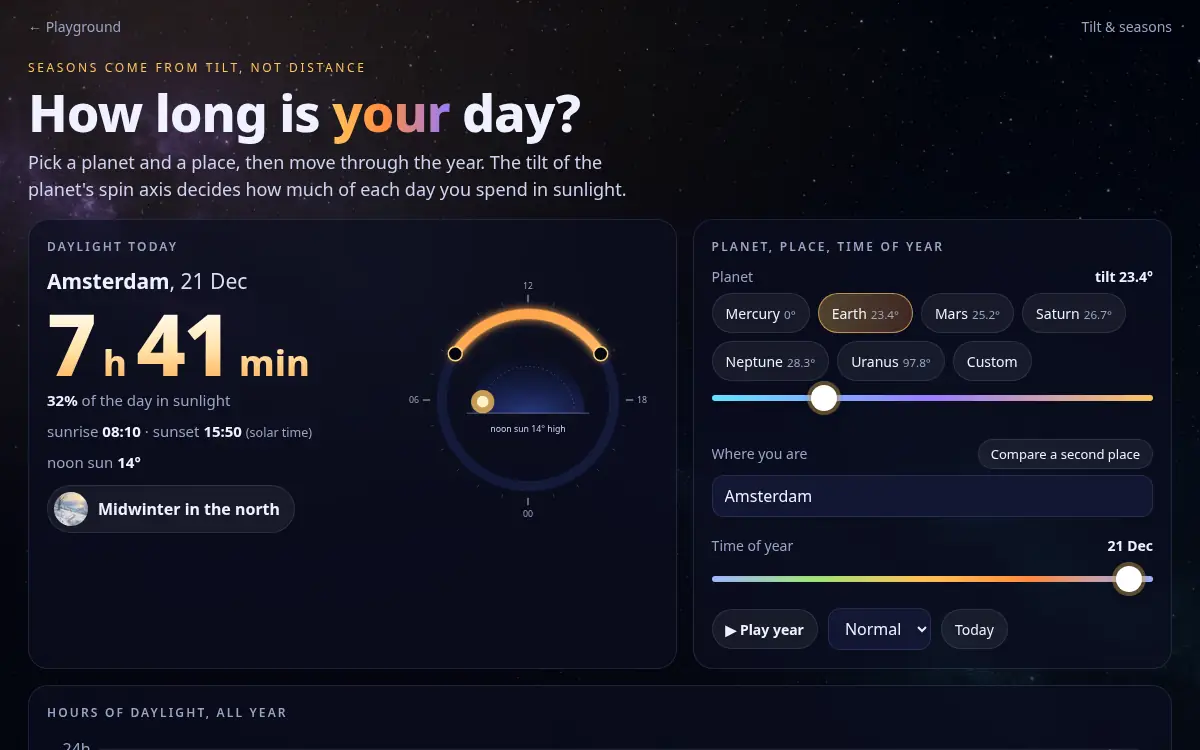
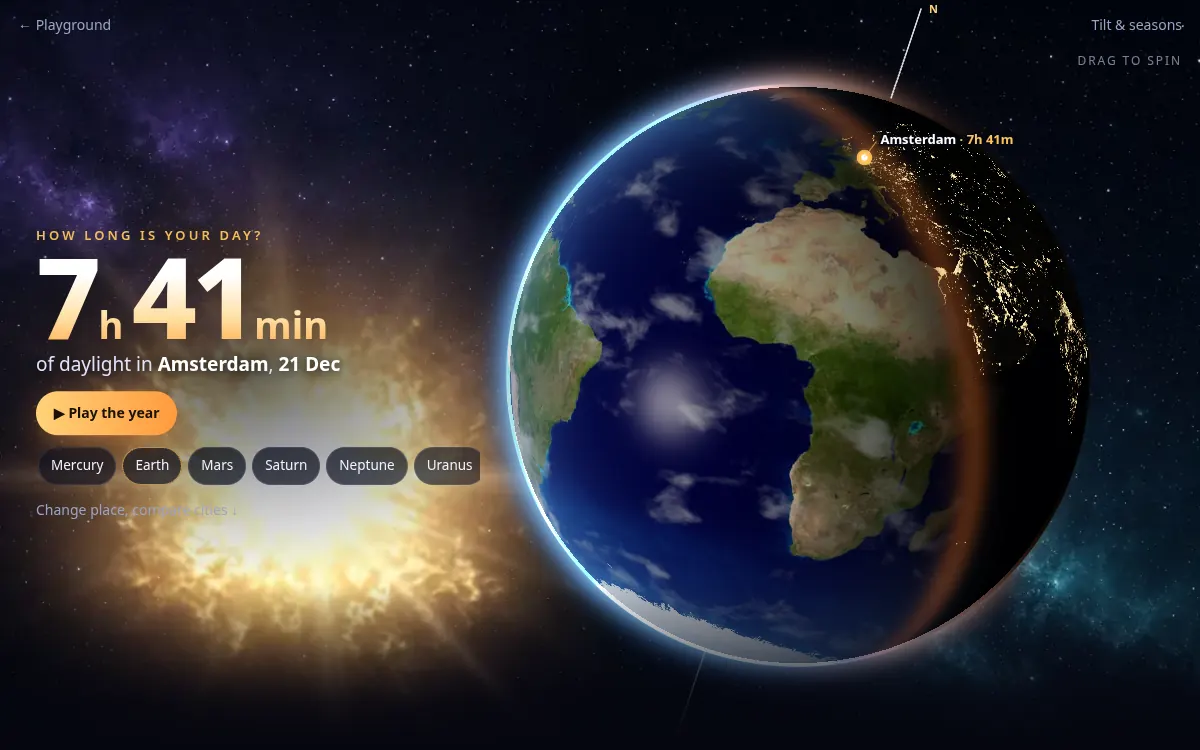
playground/seasons: real-time planet hero (NASA imagery), new thumbnail (noindex)

diff --git a/playground/seasons/index.html b/playground/seasons/index.html
@@ -86,15 +86,73 @@ footer{color:var(--mute);font-size:12.5px;margin-top:20px;text-align:center}
 @keyframes pulse{0%,100%{opacity:.55}50%{opacity:1}}
 .pulse{animation:pulse 3.2s ease-in-out infinite}
 @media(prefers-reduced-motion:reduce){*{transition:none!important;animation:none!important}}
+.introFade{position:fixed;inset:0;background:#000;z-index:50;pointer-events:none;animation:introFade 1.6s ease-out .1s forwards}
+@keyframes introFade{to{opacity:0;visibility:hidden}}
+.hero{background:#05060f url(img/space.webp) center/cover no-repeat;position:relative;height:100vh;height:100svh;min-height:560px;max-height:1100px;overflow:hidden;isolation:isolate;margin-bottom:8px}
+.hero::after{content:"";position:absolute;inset:auto 0 0 0;height:38%;background:linear-gradient(180deg,rgba(5,6,15,0),rgba(5,6,15,.85) 70%,var(--bg));z-index:2;pointer-events:none}
+.stage{position:absolute;inset:0;z-index:1;animation:rise 2.4s cubic-bezier(.16,.84,.24,1) .2s both}
+#planet{position:absolute;inset:0;width:100%;height:100%;z-index:1;touch-action:pan-y;cursor:grab}
+#planet:active{cursor:grabbing}
+#heroSvg{position:absolute;inset:0;width:100%;height:100%;z-index:3;pointer-events:none;overflow:visible;animation:fadeIn 1.2s ease 1.4s both}
+.heroSun{position:absolute;width:min(110vw,900px);aspect-ratio:1;transform:translate(-50%,-50%);mix-blend-mode:screen;z-index:0;pointer-events:none;opacity:.95;animation:fadeIn 2.2s ease .4s both}
+@keyframes rise{from{transform:translateY(14%) scale(.9);opacity:0}to{transform:none;opacity:1}}
+@keyframes fadeIn{from{opacity:0}to{opacity:1}}
+@keyframes up{from{transform:translateY(18px);opacity:0}to{transform:none;opacity:1}}
+.heroNav{position:absolute;top:0;left:0;right:0;z-index:5;padding:14px 18px;max-width:none}
+.heroTxt{position:absolute;z-index:4;left:0;right:0;bottom:0;padding:0 18px calc(22px + env(safe-area-inset-bottom));pointer-events:none;animation:up 1.2s cubic-bezier(.2,.8,.2,1) 1.2s both}
+.heroTxt>*{pointer-events:auto;position:relative}
+.heroTxt::before{content:"";position:absolute;inset:-60px -80px -60px -120px;background:radial-gradient(closest-side,rgba(5,6,15,.62),rgba(5,6,15,0));pointer-events:none}
+.heroTitle{font-size:13px;letter-spacing:.24em;text-transform:uppercase;color:var(--sun);font-weight:600;margin:0}
+.heroNum{font-weight:800;letter-spacing:-.045em;line-height:.9;font-size:clamp(76px,24vw,190px);font-variant-numeric:tabular-nums;white-space:nowrap;background:linear-gradient(180deg,#fff 30%,#ffe2a8 70%,#ffb35a);-webkit-background-clip:text;background-clip:text;color:transparent;filter:drop-shadow(0 6px 30px rgba(0,0,0,.55));margin:2px 0 4px}
+.heroNum small{font-size:.34em;letter-spacing:0;margin:0 .22em 0 .06em;font-weight:700}
+.heroSub{margin:0 0 12px;font-size:clamp(15px,2vw,19px);color:#dfe3ff;text-shadow:0 1px 12px #000}
+.heroSub b{color:#fff}
+.heroBar{display:flex;gap:10px;align-items:center;flex-wrap:wrap}
+#hPlay{font-weight:700;background:linear-gradient(90deg,#ffd27a,#ff9a3d);color:#1a1204;border:0;min-height:44px;padding:10px 18px;box-shadow:0 8px 30px -8px rgba(255,150,60,.7)}
+#hPlay[aria-pressed=true]{background:#fff}
+.hChips{display:flex;gap:6px;overflow-x:auto;scrollbar-width:none;-webkit-overflow-scrolling:touch;max-width:100%;padding:2px}
+.hChips::-webkit-scrollbar{display:none}
+.hChips button{min-height:38px;padding:6px 12px;font-size:13.5px;white-space:nowrap;background:rgba(10,12,30,.55);backdrop-filter:blur(8px);-webkit-backdrop-filter:blur(8px)}
+.heroMore{display:inline-block;margin-top:12px;font-size:14px;color:var(--mute);text-decoration:none}
+.heroMore:hover{color:var(--ink)}
+.dragHint{position:absolute;z-index:4;right:18px;top:52px;font-size:12px;letter-spacing:.16em;text-transform:uppercase;color:rgba(220,225,255,.55);pointer-events:none;transition:opacity .6s}
+.pin{animation:pinPulse 2.2s ease-in-out infinite;transform-box:fill-box;transform-origin:center}
+@keyframes pinPulse{0%,100%{transform:scale(.7);opacity:.9}50%{transform:scale(1.5);opacity:.15}}
+.pinLbl{font:700 13px ui-sans-serif,system-ui,-apple-system,sans-serif;fill:#fff;paint-order:stroke;stroke:rgba(5,6,15,.85);stroke-width:4px;stroke-linejoin:round}
+@media(min-width:900px){
+  .heroTxt{left:max(18px,calc(50vw - 590px));right:auto;bottom:auto;top:50%;transform:translateY(-50%);max-width:480px;padding-bottom:0;animation-name:fadeIn}
+  .heroNum{font-size:clamp(96px,9.4vw,160px)}
+  .hero::after{height:22%}
+}
+@media(prefers-reduced-motion:reduce){.introFade{display:none}.pin{animation:none}}
 </style>
 </head>
 <body>
+<div class="introFade" aria-hidden="true"></div>
+<section class="hero" id="hero" aria-label="Live planet">
+  <img class="heroSun" id="heroSun" src="img/sun.webp" alt="" aria-hidden="true">
+  <div class="stage">
+  <canvas id="planet" aria-label="Rotating planet lit by the sun. Drag to spin it." role="img"></canvas>
+  <svg id="heroSvg" aria-hidden="true"></svg>
+  </div>
+  <nav class="top heroNav" aria-label="Site"><a href="../">← Playground</a><span>Tilt &amp; seasons</span></nav>
+  <div class="heroTxt">
+    <h1 class="heroTitle">How long is your day?</h1>
+    <div class="heroNum" aria-live="off"><span id="hH">0</span><small>h</small><span id="hM">00</span><small>min</small></div>
+    <p class="heroSub" id="hSub"></p>
+    <div class="heroBar">
+      <button id="hPlay" aria-pressed="false">▶ Play the year</button>
+      <div class="hChips" id="hChips" role="group" aria-label="Pick a planet"></div>
+    </div>
+    <a class="heroMore" href="#controls">Change place, compare cities ↓</a>
+  </div>
+  <div class="dragHint" id="dragHint">drag to spin</div>
+</section>
 <div class="wrap">
-<nav class="top" aria-label="Site"><a href="../">← Playground</a><span>Tilt &amp; seasons</span></nav>
-<header>
+<header style="padding-top:6px">
   <div class="kicker">Seasons come from tilt, not distance</div>
-  <h1>How long is <em>your</em> day?</h1>
-  <p class="lede">Pick a planet and a place, then move through the year. The tilt of the planet's spin axis decides how much of each day you spend in sunlight.</p>
+  <h2 style="font-size:clamp(26px,4vw,40px);margin:.15em 0 .2em;letter-spacing:-.02em">The tilt decides your daylight</h2>
+  <p class="lede">The planet spins on a tilted axis that keeps pointing the same way all year. So for half the orbit your hemisphere leans toward the sun (long days, high sun), and for the other half it leans away.</p>
 </header>
 
 <main class="layout">
@@ -112,7 +170,7 @@ footer{color:var(--mute);font-size:12.5px;margin-top:20px;text-align:center}
     </div>
   </section>
 
-  <section class="card" aria-labelledby="cTitle">
+  <section class="card" id="controls" aria-labelledby="cTitle">
     <h2 id="cTitle">Planet, place, time of year</h2>
     <div class="controls">
       <div>
@@ -162,7 +220,7 @@ footer{color:var(--mute);font-size:12.5px;margin-top:20px;text-align:center}
   </section>
 </div>
 
-<footer>Sun's latitude = asin(sin tilt × sin orbit angle) (for Earth this matches tilt × sin(2π(day−80)/365) within a few tenths of a degree). Day length = 2·acos(−tan lat · tan dec), clamped to 0–24 h; for Earth the sunrise edge is set at −0.833° (atmospheric refraction plus the sun's disc) so numbers match sunrise tables. Other planets: their year is shown as a fraction, and day length as if their day lasted 24 h.</footer>
+<footer>Earth imagery: NASA (Blue Marble land/ocean/ice and Earth at Night 2012, NASA Earth Observatory, public domain). Other planets are stylised. Sun's latitude = asin(sin tilt × sin orbit angle) (for Earth this matches tilt × sin(2π(day−80)/365) within a few tenths of a degree). Day length = 2·acos(−tan lat · tan dec), clamped to 0–24 h; for Earth the sunrise edge is set at −0.833° (atmospheric refraction plus the sun's disc) so numbers match sunrise tables. Other planets: their year is shown as a fraction, and day length as if their day lasted 24 h.</footer>
 </div>
 
 <script>
@@ -346,11 +404,236 @@ function cityInput(inp,key){
   inp.value=S[key][0];
 }
 cityInput($("cityA"),"A");cityInput($("cityB"),"B");
-let raf=0,last=0,acc=0;
-function loop(t){const dt=last?Math.min(.1,(t-last)/1000):0;last=t;acc+=dt*365/S.period;if(acc>=1){S.day=((S.day-1+Math.floor(acc))%365)+1;acc%=1;draw()}raf=S.playing?requestAnimationFrame(loop):0;if(!raf)last=0}
-$("play").addEventListener("click",()=>{S.playing=!S.playing;ui();if(S.playing&&!raf)raf=requestAnimationFrame(loop)});
+// ================= HERO: live planet =================
+const dot=(a,b)=>a[0]*b[0]+a[1]*b[1]+a[2]*b[2];
+const cross=(a,b)=>[a[1]*b[2]-a[2]*b[1],a[2]*b[0]-a[0]*b[2],a[0]*b[1]-a[1]*b[0]];
+const add=(...v)=>v.reduce((s,x)=>[s[0]+x[0],s[1]+x[1],s[2]+x[2]],[0,0,0]);
+const mul=(v,k)=>[v[0]*k,v[1]*k,v[2]*k];
+const nrm=v=>{const l=Math.hypot(v[0],v[1],v[2])||1;return mul(v,1/l)};
+const WY=[0,1,0];
+const H={tilt:S.tilt,spin:0,vel:0,drag:false,spinTarget:null,last:0,lastDraw:0,lastFloor:-1,visible:true,auto:!reduce};
+// Inertial geometry. World Y = orbit normal; the axis leans toward fixed direction d; L = orbit angle (0 = N spring equinox).
+function geom(tilt,day){
+  const t=tilt*D,L=orbitAngle(day)*D,d=[-1,0,0];
+  const n=add(mul(d,Math.sin(t)),mul(WY,Math.cos(t)));
+  const u=[-Math.sin(L),0,-Math.cos(L)];                // direction from planet to sun
+  const e1=nrm(cross(WY,d)),e2=cross(n,e1);
+  // camera: sun sits to the left and a bit in front; slightly above the orbit plane
+  const a=38*D,el=16*D;let q=nrm(cross(WY,u));
+  let r=add(mul(u,-Math.cos(a)),mul(q,Math.sin(a))),f=add(mul(u,Math.sin(a)),mul(q,Math.cos(a)));
+  if(dot(cross(r,WY),f)<0){q=mul(q,-1);r=add(mul(u,-Math.cos(a)),mul(q,Math.sin(a)));f=add(mul(u,Math.sin(a)),mul(q,Math.cos(a)))}
+  const f2=add(mul(f,Math.cos(el)),mul(WY,Math.sin(el))),up=add(mul(WY,Math.cos(el)),mul(f,-Math.sin(el)));
+  const C=v=>[dot(v,r),dot(v,up),dot(v,f2)];
+  return {n,u,e1,e2,f:f2,cN:C(n),cU:C(u),cE1:C(e1),cE2:C(e2),C};
+}
+const bodyDir=(G,lat,lon,spin)=>{const p=lat*D,l=lon*D+spin;return add(mul(G.e1,Math.cos(p)*Math.cos(l)),mul(G.e2,Math.cos(p)*Math.sin(l)),mul(G.n,Math.sin(p)))};
+const faceSpin=(G,lon)=>Math.atan2(dot(G.f,G.e2),dot(G.f,G.e1))-lon*D-0.12;
+const CITYLON={"Longyearbyen":15.65,"Tromsø":18.96,"Reykjavik":-21.94,"Anchorage":-149.9,"Helsinki":24.94,"Oslo":10.75,"Berlin":13.40,"Amsterdam":4.90,"London":-0.13,"Paris":2.35,"Rome":12.50,"Chicago":-87.63,"New York":-74.01,"Madrid":-3.70,"Beijing":116.40,"San Francisco":-122.42,"Tokyo":139.69,"Cairo":31.24,"Dubai":55.27,"Honolulu":-157.86,"Mexico City":-99.13,"Mumbai":72.88,"San Pedro Sula":-88.03,"Tegucigalpa":-87.19,"Bangkok":100.50,"Singapore":103.82,"Quito":-78.47,"Nairobi":36.82,"Jakarta":106.85,"Lima":-77.04,"Rio de Janeiro":-43.17,"Johannesburg":28.05,"Santiago":-70.67,"Sydney":151.21,"Cape Town":18.42,"Buenos Aires":-58.38,"Auckland":174.76,"Ushuaia":-68.30,"McMurdo Station":166.67};
+const lonOf=c=>CITYLON[c[0]]||0;
+const KIND={Earth:0,Mercury:1,Mars:2,Saturn:3,Neptune:4,Uranus:5};
+const kind=()=>S.planet in KIND?KIND[S.planet]:0;   // custom tilt keeps Earth's surface
+const ATMO=[[.35,.62,1],[0,0,0],[1,.55,.3],[1,.85,.55],[.3,.5,1],[.5,.9,1]];
+
+const cv=$("planet");let gl=null,prog=null,U={},tex={day:null,night:null},ctx2=null;
+const VS=`attribute vec2 p;void main(){gl_Position=vec4(p,0.,1.);}`;
+const FS=`precision highp float;
+uniform vec2 uC;uniform float uR,uSpin,uTime,uKind,uReady;uniform vec3 uN,uE1,uE2,uU,uAtmo;
+uniform sampler2D uDay,uNight;
+float h3(vec3 p){p=fract(p*.3183099+.1);p*=17.;return fract(p.x*p.y*p.z*(p.x+p.y+p.z));}
+float n3(vec3 x){vec3 i=floor(x),f=fract(x);f=f*f*(3.-2.*f);
+ return mix(mix(mix(h3(i),h3(i+vec3(1,0,0)),f.x),mix(h3(i+vec3(0,1,0)),h3(i+vec3(1,1,0)),f.x),f.y),
+            mix(mix(h3(i+vec3(0,0,1)),h3(i+vec3(1,0,1)),f.x),mix(h3(i+vec3(0,1,1)),h3(i+vec3(1,1,1)),f.x),f.y),f.z);}
+float fbm(vec3 p){float s=0.,a=.5;for(int i=0;i<5;i++){s+=a*n3(p);p=p*2.02+vec3(1.7,9.2,3.1);a*=.5;}return s;}
+void main(){
+ vec2 q=(gl_FragCoord.xy-uC)/uR;float r2=dot(q,q);
+ vec3 col=vec3(0.);float al=0.;
+ vec2 sd=uU.xy;float sl2=length(sd);sd=sl2>1e-4?sd/sl2:vec2(-1.,0.);
+ if(r2<1.){
+  vec3 p=vec3(q,sqrt(1.-r2));
+  float sn=clamp(dot(p,uN),-1.,1.);float lat=asin(sn);
+  float lon=atan(dot(p,uE2),dot(p,uE1))-uSpin;
+  vec2 uv=vec2(fract(lon/6.2831853+.5),.5-lat/3.1415927);
+  vec3 b=vec3(cos(lat)*cos(lon),cos(lat)*sin(lon),sn);   // body-fixed point (for seamless noise)
+  float L=dot(p,uU);float day=smoothstep(-.10,.14,L);float diff=max(L,0.);
+  vec3 base=vec3(.5);vec3 lights=vec3(0.);float ocean=0.,cloud=0.;
+  if(uKind<.5){
+    base=texture2D(uDay,uv).rgb;base=pow(base,vec3(1.08))*1.05;
+    vec3 nt=texture2D(uNight,uv).rgb;float nl=dot(nt,vec3(.35,.5,.15));
+    lights=vec3(1.,.74,.42)*smoothstep(.13,.6,nl)*2.2+vec3(1.,.6,.3)*smoothstep(.45,.9,nl)*1.5;
+    ocean=smoothstep(.04,.14,base.b-base.r)*(1.-smoothstep(.45,.75,base.g));
+    vec3 cb=vec3(b.xy*5.5,b.z*9.)+vec3(uTime*.008,0.,uTime*.005);float c=fbm(cb+1.6*vec3(fbm(cb*.7),fbm(cb*.7+5.2),0.));c=smoothstep(.55,.85,c+.08*fbm(b*22.));
+    cloud=c*(1.-.7*smoothstep(.7,.95,abs(sn)))*.62;
+  }else if(uKind<1.5){ // Mercury
+    float g=.32+.4*fbm(b*4.)+.18*fbm(b*18.);float cr=smoothstep(.62,.7,fbm(b*9.+4.));base=vec3(g)*vec3(1.,.96,.9)-cr*.12;
+  }else if(uKind<2.5){ // Mars
+    float g=fbm(b*3.)*.8+fbm(b*12.)*.35;base=mix(vec3(.42,.17,.08),vec3(.86,.48,.25),g);
+    base=mix(base,vec3(.95,.93,.9),smoothstep(.93,.96,abs(sn)));
+  }else{ // gas giants: bands along latitude
+    float w=fbm(vec3(b.xy*2.,sn*3.)+vec3(uTime*.01,0.,0.));
+    float band=sin(sn*(uKind<3.5?26.:14.)+w*3.)*.5+.5;
+    if(uKind<3.5)base=mix(vec3(.78,.64,.42),vec3(.96,.88,.7),band);
+    else if(uKind<4.5)base=mix(vec3(.12,.25,.7),vec3(.32,.5,.95),band)+vec3(.0,.03,.06)*w;
+    else{base=mix(vec3(.42,.72,.8),vec3(.72,.93,.95),band);base=mix(base,vec3(.85,.97,.98),smoothstep(.8,.97,sn)*.6);}
+  }
+  vec3 lit=base*(.035+1.08*pow(diff,.85));
+  float tw=exp(-pow(L/.085,2.));
+  vec3 hv=normalize(uU+vec3(0.,0.,1.));float sp=pow(max(dot(p,hv),0.),140.)*ocean*(1.-cloud)*.55*day;
+  vec3 night=base*.018+lights*(1.-cloud*.7);
+  col=mix(night,lit,day);
+  col=mix(col,vec3(1.)*(.03+1.05*pow(diff,.9)),cloud*day);
+  col+=vec3(1.,.42,.12)*tw*smoothstep(-.16,.06,L)*.32*(uKind<1.5&&uKind>.5?0.:1.);
+  col+=vec3(1.,.95,.85)*sp;
+  float fr=pow(1.-p.z,2.4);col+=uAtmo*fr*smoothstep(-.25,.5,L)*.9;
+  col=1.-exp(-col*1.25);
+  al=1.;
+  float edge=smoothstep(1.,.994,sqrt(r2));col*=edge;al=edge;
+  col*=uReady;
+ }
+ float r=sqrt(r2);
+ if(r>.985){
+  float hh=max(r-1.,0.);float g=exp(-hh*24.)*smoothstep(1.16,1.,r);
+  float s=dot(q/r,sd)*sl2+uU.z*.25;float li=smoothstep(-.45,.65,s);
+  vec3 a=uAtmo*g*li*1.1+vec3(1.,.48,.18)*g*exp(-pow(s/.28,2.))*.45*length(uAtmo);
+  a=1.-exp(-a*1.4);
+  col+=a;al=max(al,max(a.r,max(a.g,a.b)));
+ }
+ gl_FragColor=vec4(col,al);
+}`;
+function initGL(){
+  try{gl=cv.getContext("webgl",{premultipliedAlpha:true,alpha:true,antialias:false,preserveDrawingBuffer:false})||cv.getContext("experimental-webgl")}catch(e){gl=null}
+  if(!gl)return false;
+  const sh=(t,src)=>{const s=gl.createShader(t);gl.shaderSource(s,src);gl.compileShader(s);if(!gl.getShaderParameter(s,gl.COMPILE_STATUS)){console.warn(gl.getShaderInfoLog(s));return null}return s};
+  const v=sh(gl.VERTEX_SHADER,VS),f=sh(gl.FRAGMENT_SHADER,FS);if(!v||!f){gl=null;return false}
+  prog=gl.createProgram();gl.attachShader(prog,v);gl.attachShader(prog,f);gl.linkProgram(prog);
+  if(!gl.getProgramParameter(prog,gl.LINK_STATUS)){gl=null;return false}
+  gl.useProgram(prog);
+  const b=gl.createBuffer();gl.bindBuffer(gl.ARRAY_BUFFER,b);gl.bufferData(gl.ARRAY_BUFFER,new Float32Array([-1,-1,1,-1,-1,1,1,1]),gl.STATIC_DRAW);
+  const loc=gl.getAttribLocation(prog,"p");gl.enableVertexAttribArray(loc);gl.vertexAttribPointer(loc,2,gl.FLOAT,false,0,0);
+  ["uC","uR","uSpin","uTime","uKind","uReady","uN","uE1","uE2","uU","uAtmo","uDay","uNight"].forEach(k=>U[k]=gl.getUniformLocation(prog,k));
+  gl.uniform1i(U.uDay,0);gl.uniform1i(U.uNight,1);
+  const mk=(unit,src)=>{const t=gl.createTexture();gl.activeTexture(gl.TEXTURE0+unit);gl.bindTexture(gl.TEXTURE_2D,t);
+    gl.texImage2D(gl.TEXTURE_2D,0,gl.RGBA,1,1,0,gl.RGBA,gl.UNSIGNED_BYTE,new Uint8Array([20,40,90,255]));
+    const im=new Image();im.onload=()=>{gl.activeTexture(gl.TEXTURE0+unit);gl.bindTexture(gl.TEXTURE_2D,t);
+      gl.texImage2D(gl.TEXTURE_2D,0,gl.RGBA,gl.RGBA,gl.UNSIGNED_BYTE,im);
+      gl.texParameteri(gl.TEXTURE_2D,gl.TEXTURE_WRAP_S,gl.CLAMP_TO_EDGE);gl.texParameteri(gl.TEXTURE_2D,gl.TEXTURE_WRAP_T,gl.CLAMP_TO_EDGE);
+      gl.texParameteri(gl.TEXTURE_2D,gl.TEXTURE_MIN_FILTER,gl.LINEAR);gl.texParameteri(gl.TEXTURE_2D,gl.TEXTURE_MAG_FILTER,gl.LINEAR);
+      tex[src]=true;};im.src=`img/earth-${src}.webp`;};
+  mk(0,"day");mk(1,"night");
+  gl.enable(gl.BLEND);gl.blendFunc(gl.ONE,gl.ONE_MINUS_SRC_ALPHA);
+  return true;
+}
+// 2D fallback: low-res per-pixel render of the same model (Earth texture + lights)
+const fb={day:null,night:null,w:0,h:0,img:null,N:0,c:null};
+function initFallback(){
+  ctx2=cv.getContext("2d");
+  const load=(k)=>{const im=new Image();im.onload=()=>{const c=document.createElement("canvas");c.width=1024;c.height=512;const x=c.getContext("2d");x.drawImage(im,0,0,1024,512);fb[k]=x.getImageData(0,0,1024,512).data;fb.w=1024;fb.h=512;tex[k]=true};im.src=`img/earth-${k}.webp`};
+  load("day");load("night");
+}
+function render2D(lay,G,spin){
+  const N=Math.min(300,Math.round(lay.R*2));if(fb.N!==N){fb.N=N;fb.c=document.createElement("canvas");fb.c.width=fb.c.height=N;fb.img=fb.c.getContext("2d").createImageData(N,N)}
+  const px=fb.img.data,n=G.cN,e1=G.cE1,e2=G.cE2,u=G.cU,k=kind(),tint=[[1,1,1],[.85,.82,.78],[1.25,.62,.38],[1.2,1.05,.8],[.45,.7,1.4],[.8,1.15,1.2]][k];
+  for(let j=0;j<N;j++)for(let i=0;i<N;i++){const o=(j*N+i)*4,x=(i+.5)/N*2-1,y=1-(j+.5)/N*2,r2=x*x+y*y;if(r2>=1){px[o+3]=0;continue}
+    const z=Math.sqrt(1-r2),sl=x*n[0]+y*n[1]+z*n[2],lat=Math.asin(Math.max(-1,Math.min(1,sl))),lon=Math.atan2(x*e2[0]+y*e2[1]+z*e2[2],x*e1[0]+y*e1[1]+z*e1[2])-spin;
+    let tu=(lon/(2*Math.PI)+.5)%1;if(tu<0)tu+=1;const tx=(tu*fb.w)|0,ty=Math.min(fb.h-1,((.5-lat/Math.PI)*fb.h)|0),t=(ty*fb.w+tx)*4;
+    const L=x*u[0]+y*u[1]+z*u[2];let d=(L+.1)/.24;d=d<0?0:d>1?1:d*d*(3-2*d);const lit=.04+1.05*Math.pow(Math.max(L,0),.85);
+    let R=60,Gc=90,B=140,nl=0;if(fb.day){R=fb.day[t];Gc=fb.day[t+1];B=fb.day[t+2]}
+    if(k>0){const l=(R+Gc+B)/3;R=l*tint[0];Gc=l*tint[1];B=l*tint[2]}else if(fb.night){nl=(fb.night[t]*.35+fb.night[t+1]*.5+fb.night[t+2]*.15)/255;nl=Math.max(0,(nl-.13)/.47)}
+    const tw=Math.exp(-((L/.11)**2))*.4;
+    px[o]=Math.min(255,R*lit*d+(1-d)*nl*255+tw*255);px[o+1]=Math.min(255,Gc*lit*d+(1-d)*nl*185+tw*105);px[o+2]=Math.min(255,B*lit*d+(1-d)*nl*105+tw*30);px[o+3]=255;}
+  fb.c.getContext("2d").putImageData(fb.img,0,0);
+  ctx2.clearRect(0,0,cv.width,cv.height);ctx2.imageSmoothingEnabled=true;
+  ctx2.drawImage(fb.c,lay.cx-lay.R,lay.cy-lay.R,lay.R*2,lay.R*2);
+}
+const useGL=initGL();if(!useGL)initFallback();
+cv.dataset.renderer=useGL?"webgl":"2d";
+
+function layout(){
+  const W=cv.clientWidth||innerWidth,Hh=cv.clientHeight||innerHeight,dpr=Math.min(devicePixelRatio||1,2);
+  const pw=Math.round(W*dpr),ph=Math.round(Hh*dpr);if(cv.width!==pw||cv.height!==ph){cv.width=pw;cv.height=ph}
+  const wide=W>=900;
+  const cx=wide?W*.665:W*.5,cy=wide?Hh*.5:Hh*.355,R=wide?Math.min(Hh*.39,W*.25):Math.min(W*.46,Hh*.27);
+  return {W,H:Hh,cx,cy,R,dpr};
+}
+let LAY=layout();addEventListener("resize",()=>{LAY=layout()});
+
+// interaction: drag / swipe to spin (vertical swipes still scroll the page)
+(()=>{let lx=0,lt=0,id=null;
+ cv.addEventListener("pointerdown",e=>{id=e.pointerId;H.drag=true;lx=e.clientX;lt=performance.now();H.vel=0;H.spinTarget=null;cv.setPointerCapture(id);$("dragHint").style.opacity=0});
+ cv.addEventListener("pointermove",e=>{if(!H.drag||e.pointerId!==id)return;const dx=e.clientX-lx,t=performance.now();H.spin+=dx/LAY.R;H.vel=dx/LAY.R/Math.max(.008,(t-lt)/1000);lx=e.clientX;lt=t});
+ const end=()=>{H.drag=false;id=null};cv.addEventListener("pointerup",end);cv.addEventListener("pointercancel",end);
+ cv.addEventListener("keydown",e=>{if(e.key==="ArrowLeft"){H.spin-=.2}if(e.key==="ArrowRight"){H.spin+=.2}});cv.tabIndex=0;
+})();
+
+// hero chips
+const hc=$("hChips");PLANETS.forEach(([n])=>{const b=document.createElement("button");b.dataset.p=n;b.textContent=n;hc.appendChild(b)});
+hc.addEventListener("click",e=>{const b=e.target.closest("button");if(!b)return;const p=PLANETS.find(p=>p[0]===b.dataset.p);S.planet=p[0];S.tilt=p[1];draw()});
+$("hPlay").addEventListener("click",()=>$("play").click());
+
+// overlay: axis, pins, sun position
+const hs=$("heroSvg");
+function overlay(G){
+  const {cx,cy,R,W,H:Hh}=LAY;hs.setAttribute("viewBox",`0 0 ${W} ${Hh}`);
+  const P=v=>[cx+v[0]*R,cy-v[1]*R];
+  let out="";
+  // axis: only the parts outside the disc or in front of it
+  const n=G.cN,nl=Math.hypot(n[0],n[1]);
+  for(const s of[1,-1]){const v=mul(n,s);let t0=1;if(v[2]<0)t0=nl>1e-3?Math.max(1,1/nl):9;const t1=1.32;
+    if(t0<t1){const a=P(mul(v,t0)),b=P(mul(v,t1));out+=`<line x1="${a[0].toFixed(1)}" y1="${a[1].toFixed(1)}" x2="${b[0].toFixed(1)}" y2="${b[1].toFixed(1)}" stroke="rgba(255,255,255,${s>0?.85:.45})" stroke-width="1.6" stroke-linecap="round"/>`;
+      if(s>0){out+=`<text x="${(b[0]+(v[0]>=0?8:-8)).toFixed(1)}" y="${(b[1]+4).toFixed(1)}" text-anchor="${v[0]>=0?"start":"end"}" class="pinLbl" style="font-size:11px;fill:#ffd27a">N</text>`}}}
+  const day=S.day,dec=decl(S.tilt,day);
+  const pins=[[S.A,"#ffc35a"]];if(S.cmp)pins.push([S.B,"#62e3ff"]);
+  for(const [c,col] of pins){const w=G.C(bodyDir(G,c[1],lonOf(c),H.spin));const vis=w[2];if(vis<-.02)continue;
+    const op=Math.min(1,Math.max(0,(vis+.02)/.18)),[x,y]=P(w),h=dayHours(c[1],dec);
+    const right=x<cx+R*.3||x<LAY.W*.5;const lx=x+(right?16:-16);
+    out+=`<g opacity="${op.toFixed(2)}"><circle class="pin" cx="${x.toFixed(1)}" cy="${y.toFixed(1)}" r="11" fill="${col}" opacity=".5"/><circle cx="${x.toFixed(1)}" cy="${y.toFixed(1)}" r="4.5" fill="#fff" stroke="${col}" stroke-width="2.5" style="filter:drop-shadow(0 0 6px ${col})"/>`+
+      `<line x1="${x.toFixed(1)}" y1="${y.toFixed(1)}" x2="${(lx-(right?4:-4)).toFixed(1)}" y2="${(y-16).toFixed(1)}" stroke="${col}" stroke-width="1" opacity=".7"/>`+
+      `<text x="${lx.toFixed(1)}" y="${(y-14).toFixed(1)}" text-anchor="${right?"start":"end"}" class="pinLbl">${c[0]} <tspan fill="${col}">· ${hm(h).replace(" min","m").replace(" h","h")}</tspan></text></g>`;}
+  hs.innerHTML=out;
+  const su=G.cU,sl=Math.hypot(su[0],su[1])||1,sx=cx+su[0]/sl*R*1.75,sy=cy-su[1]/sl*R*1.75;
+  const sun=$("heroSun");sun.style.left=sx+"px";sun.style.top=sy+"px";sun.style.width=Math.max(R*3.2,280)+"px";
+}
+let lastNum="";
+function heroText(){
+  const dec=decl(S.tilt,S.day),h=dayHours(S.A[1],dec),{H:hh,M}=fmtH(h);const num=hh+":"+M;
+  if(num!==lastNum){$("hH").textContent=hh;$("hM").textContent=String(M).padStart(2,"0");lastNum=num}
+  const where=S.planet&&S.planet!=="Earth"?` on <b>${S.planet}</b>`:S.planet?"":` · tilt ${S.tilt.toFixed(1)}°`;
+  const extra=h>=23.99?" · polar day, the sun never sets":h<=0.01?" · polar night, the sun never rises":"";
+  const sub=`of daylight in <b>${S.A[0]}</b>${where}, <b>${whenLabel(S.day)}</b>${extra}`;
+  if($("hSub").innerHTML!==sub)$("hSub").innerHTML=sub;
+  $("hPlay").textContent=S.playing?"❚❚ Pause":"▶ Play the year";$("hPlay").setAttribute("aria-pressed",S.playing);
+  hc.querySelectorAll("button").forEach(b=>b.setAttribute("aria-pressed",b.dataset.p===S.planet));
+}
+// face the chosen city at start and whenever it changes
+let faced=null;
+function frame(t){
+  requestAnimationFrame(frame);
+  const dt=H.last?Math.min(.05,(t-H.last)/1000):0;H.last=t;
+  if(S.playing){S.day+=dt*365/S.period;if(S.day>=366)S.day-=365}
+  const fl=Math.floor(S.day);
+  if(S.playing&&(t-H.lastDraw>90||fl!==H.lastFloor&&t-H.lastDraw>60)){draw();H.lastDraw=t;H.lastFloor=fl}
+  H.tilt+=(S.tilt-H.tilt)*(1-Math.exp(-dt*(reduce?60:3.2)));if(Math.abs(S.tilt-H.tilt)<.01)H.tilt=S.tilt;
+  const G=geom(H.tilt,S.day);
+  if(faced!==S.A){faced=S.A;const tgt=faceSpin(G,lonOf(S.A));if(H.last&&t>500&&!reduce){let d=((tgt-H.spin)%(2*Math.PI)+3*Math.PI)%(2*Math.PI)-Math.PI;H.spinTarget=H.spin+d}else{H.spin=tgt}}
+  if(H.spinTarget!=null){const d=H.spinTarget-H.spin;H.spin+=d*(1-Math.exp(-dt*3));if(Math.abs(d)<.002)H.spinTarget=null}
+  else if(!H.drag){H.spin+=H.vel*dt;H.vel*=Math.exp(-dt*2.2);if(H.auto)H.spin+=dt*.05}
+  heroText();
+  if(!H.visible)return;
+  const {cx,cy,R,dpr,H:Hh}=LAY;
+  if(useGL){
+    gl.viewport(0,0,cv.width,cv.height);gl.clearColor(0,0,0,0);gl.clear(gl.COLOR_BUFFER_BIT);
+    gl.uniform2f(U.uC,cx*dpr,(Hh-cy)*dpr);gl.uniform1f(U.uR,R*dpr);gl.uniform1f(U.uSpin,H.spin);gl.uniform1f(U.uTime,t/1000);
+    gl.uniform1f(U.uKind,kind());gl.uniform1f(U.uReady,(kind()>0||tex.day)?1:.25);
+    gl.uniform3fv(U.uN,G.cN);gl.uniform3fv(U.uE1,G.cE1);gl.uniform3fv(U.uE2,G.cE2);gl.uniform3fv(U.uU,G.cU);gl.uniform3fv(U.uAtmo,ATMO[kind()]);
+    gl.drawArrays(gl.TRIANGLE_STRIP,0,4);
+  }else{ctx2.setTransform(1,0,0,1,0,0);render2D({cx:cx*dpr,cy:cy*dpr,R:R*dpr},G,H.spin)}
+  overlay(G);
+}
+new IntersectionObserver(es=>{H.visible=es[0].isIntersecting}).observe($("hero"));
+$("play").addEventListener("click",()=>{S.playing=!S.playing;if(!S.playing)S.day=Math.round(S.day)||1;draw()});
 document.addEventListener("keydown",e=>{if(e.target.matches("input,select,textarea,button"))return;if(e.key===" "){e.preventDefault();$("play").click()}});
-draw();if(S.playing)raf=requestAnimationFrame(loop);
+draw();requestAnimationFrame(frame);
+window.__hero={H,geom,LAY:()=>LAY,renderer:useGL?"webgl":"2d",cityPx:(name)=>{const c=find(name);const G=geom(H.tilt,S.day);const w=G.C(bodyDir(G,c[1],lonOf(c),H.spin));return [LAY.cx+w[0]*LAY.R,LAY.cy-w[1]*LAY.R,w[2]]}};
+
 window.__seasons={S,decl,dayHours};
 })();
 </script>

diff --git a/playground/index.html b/playground/index.html
@@ -83,11 +83,11 @@ footer{color:var(--mute);font-size:13px;padding:20px 0 calc(40px + env(safe-area
   <section aria-labelledby="fTitle">
     <h2 id="fTitle">Featured</h2>
     <a class="featured" href="seasons/">
-      <div class="thumb"><img src="img/seasons-thumb.webp" alt="Screenshot of the seasons explainer: Amsterdam, 21 December, 7 hours 41 minutes of daylight, with a day ring and a year-long daylight curve" width="1200" height="750"></div>
+      <div class="thumb"><img src="img/seasons-thumb.webp" alt="The seasons explainer: a glowing real-time Earth lit from the side, with Amsterdam pinned and 7 hours 41 minutes of daylight on 21 December" width="1200" height="750"></div>
       <div class="fBody">
         <span class="badge">New</span>
         <h3>How long is your day?</h3>
-        <p>An interactive explainer of seasons. Pick a planet and a city, scrub through the year, and watch the daylight change: Amsterdam in December, Reykjavik in June, or a whole year of polar day on Uranus.</p>
+        <p>A real-time planet you can spin, tilt and time-lapse through a year. Pick a planet and a city and watch the daylight change: Amsterdam in December, Reykjavik in June, or a whole year of polar day on Uranus.</p>
         <div class="tags"><span>SVG</span><span>Astronomy</span><span>No frameworks</span></div>
         <span class="go">Open it <b>→</b></span>
       </div>
